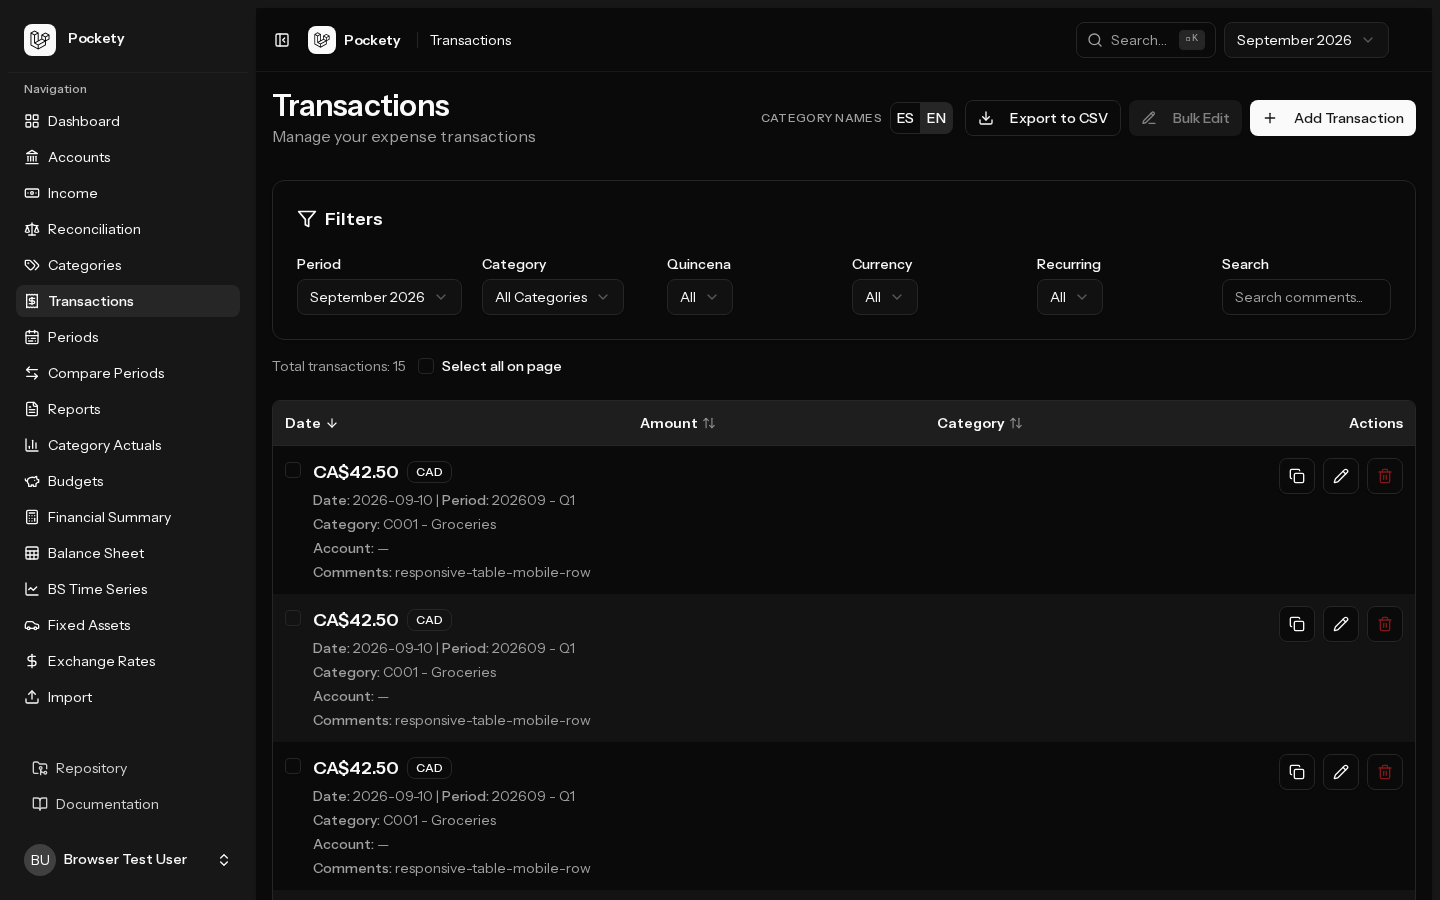
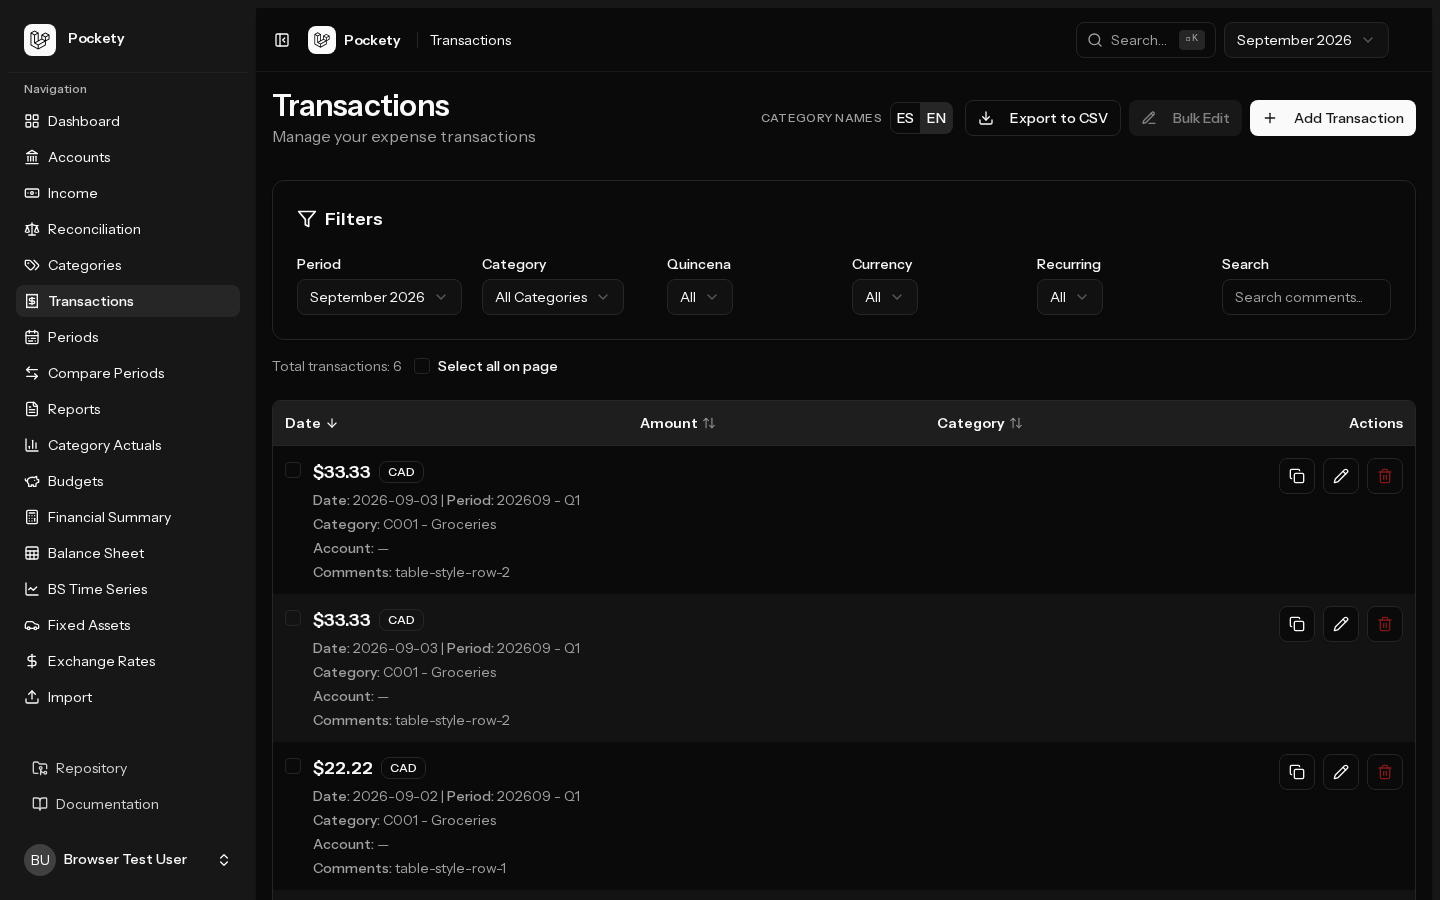
Implement currency symbols - verified end-to-end
- Format CAD as $, USD as US$, COP as COP so amounts are distinguishable
- Tested with browser automation (Playwright) and unit coverage
- Updated feature_list.json: marked test #148 as passing
- Screenshots in verification/test-148-currency-symbols/

diff --git a/tests/browser/currency-symbols.spec.ts b/tests/browser/currency-symbols.spec.ts
@@ -1,0 +1,162 @@
+import { expect, test } from '@playwright/test';
+import { mkdirSync } from 'node:fs';
+import {
+    currencySymbol,
+    formatDisplayCurrency,
+} from '../../resources/js/lib/currency';
+import { loginAsBrowserTestUser, trackConsoleErrors } from './helpers';
+
+const evidence = 'verification/test-148-currency-symbols';
+
+test.describe('currency symbols', () => {
+    test('dashboard and transactions show distinguishable CAD, USD, and COP symbols', async ({
+        page,
+    }) => {
+        mkdirSync(evidence, { recursive: true });
+        const errors = trackConsoleErrors(page);
+        page.on('pageerror', (error) => errors.push(error.message));
+        await page.setViewportSize({ width: 1440, height: 900 });
+        await loginAsBrowserTestUser(page);
+
+        // Unit-level contract used by the UI formatter
+        expect(currencySymbol('CAD')).toBe('$');
+        expect(currencySymbol('USD')).toBe('US$');
+        expect(currencySymbol('COP')).toBe('COP');
+        expect(formatDisplayCurrency(1234.56, 'CAD')).toBe('$1,234.56');
+        expect(formatDisplayCurrency(1234.56, 'USD')).toBe('US$1,234.56');
+        expect(formatDisplayCurrency(2000000, 'COP')).toBe('COP 2,000,000');
+
+        const categories = await page.request.get('/api/categories');
+        expect(categories.ok()).toBeTruthy();
+        const categoryPayload = (await categories.json()) as {
+            data: Array<{ id: number }>;
+        };
+        expect(categoryPayload.data.length).toBeGreaterThan(0);
+        const categoryId = categoryPayload.data[0].id;
+
+        const cadExpected = formatDisplayCurrency(1234.56, 'CAD');
+        const usdExpected = formatDisplayCurrency(1234.56, 'USD');
+        const copExpected = formatDisplayCurrency(2000000, 'COP');
+
+        const cadCreate = await page.request.post('/api/transactions', {
+            data: {
+                date: '2026-09-11',
+                period: '202609',
+                quincena: 'Q1',
+                category_id: categoryId,
+                amount_cad: 1234.56,
+                comments: 'currency-symbol-cad',
+            },
+        });
+        expect(cadCreate.ok()).toBeTruthy();
+        const cadId = ((await cadCreate.json()) as { data: { id: number } })
+            .data.id;
+
+        const usdCreate = await page.request.post('/api/transactions', {
+            data: {
+                date: '2026-09-12',
+                period: '202609',
+                quincena: 'Q1',
+                category_id: categoryId,
+                amount_usd: 1234.56,
+                comments: 'currency-symbol-usd',
+            },
+        });
+        expect(usdCreate.ok()).toBeTruthy();
+        const usdId = ((await usdCreate.json()) as { data: { id: number } })
+            .data.id;
+
+        const copCreate = await page.request.post('/api/transactions', {
+            data: {
+                date: '2026-09-13',
+                period: '202609',
+                quincena: 'Q1',
+                category_id: categoryId,
+                amount_cop: 2000000,
+                comments: 'currency-symbol-cop',
+            },
+        });
+        expect(copCreate.ok()).toBeTruthy();
+        const copId = ((await copCreate.json()) as { data: { id: number } })
+            .data.id;
+
+        // Step 1–2: dashboard screenshot (symbols appear on summary cards)
+        await page.goto('/dashboard');
+        await expect(page.getByRole('heading', { name: /dashboard/i })).toBeVisible({
+            timeout: 15000,
+        });
+        await page.screenshot({
+            path: `${evidence}/dashboard-currency-symbols.png`,
+            fullPage: true,
+        });
+
+        // Step 3–5: transactions list — symbols with amounts, distinguishable, consistent position
+        await page.goto('/transactions');
+        await page.getByTestId('page-period-selector').click();
+        await page
+            .getByRole('option', { name: 'September 2026', exact: true })
+            .click();
+
+        const cadAmount = page.getByTestId(`transaction-amount-${cadId}`);
+        const usdAmount = page.getByTestId(`transaction-amount-${usdId}`);
+        const copAmount = page.getByTestId(`transaction-amount-${copId}`);
+
+        await expect(cadAmount).toBeVisible();
+        await expect(usdAmount).toBeVisible();
+        await expect(copAmount).toBeVisible();
+
+        await expect(cadAmount).toHaveText(cadExpected);
+        await expect(usdAmount).toHaveText(usdExpected);
+        await expect(copAmount).toHaveText(copExpected);
+
+        const cadText = await cadAmount.innerText();
+        const usdText = await usdAmount.innerText();
+        const copText = await copAmount.innerText();
+
+        expect(cadText).toMatch(/^\$/);
+        expect(usdText).toMatch(/^US\$/);
+        expect(copText).toMatch(/^COP /);
+        expect(cadText).not.toBe(usdText);
+        expect(cadText).not.toBe(copText);
+        expect(usdText).not.toBe(copText);
+
+        // Symbol consistently before the numeric amount
+        expect(cadText.indexOf('$')).toBeLessThan(cadText.indexOf('1'));
+        expect(usdText.indexOf('US$')).toBeLessThan(usdText.indexOf('1'));
+        expect(copText.indexOf('COP')).toBeLessThan(copText.indexOf('2'));
+
+        await page.screenshot({
+            path: `${evidence}/transactions-currency-symbols.png`,
+            fullPage: true,
+        });
+        await cadAmount.screenshot({ path: `${evidence}/cad-symbol.png` });
+        await usdAmount.screenshot({ path: `${evidence}/usd-symbol.png` });
+        await copAmount.screenshot({ path: `${evidence}/cop-symbol.png` });
+
+        // Balance sheet also shows all three symbols side by side
+        await page.goto('/balance-sheet');
+        await page.getByTestId('page-period-selector').click();
+        await page
+            .getByRole('option', { name: 'January 2025', exact: true })
+            .click();
+        await expect(page.getByTestId('balance-sheet-summary')).toBeVisible({
+            timeout: 15000,
+        });
+
+        const assetsCad = await page.getByTestId('total-assets-cad').innerText();
+        const assetsUsd = await page.getByTestId('total-assets-usd').innerText();
+        const assetsCop = await page.getByTestId('total-assets-cop').innerText();
+
+        expect(assetsCad).toMatch(/^\$/);
+        expect(assetsUsd).toMatch(/^US\$/);
+        expect(assetsCop).toMatch(/^COP /);
+        expect(assetsCad).not.toEqual(assetsUsd);
+
+        await page.screenshot({
+            path: `${evidence}/balance-sheet-currency-symbols.png`,
+            fullPage: true,
+        });
+
+        expect(errors).toEqual([]);
+    });
+});

diff --git a/resources/js/lib/currency.test.ts b/resources/js/lib/currency.test.ts
@@ -1,30 +1,55 @@
 import { describe, expect, it } from 'vitest';
 import {
+    currencySymbol,
     formatCurrencyAmount,
     formatDisplayCurrency,
 } from '@/lib/currency';
 
+describe('currencySymbol', () => {
+    it('returns distinguishable symbols for CAD, USD, and COP', () => {
+        expect(currencySymbol('CAD')).toBe('$');
+        expect(currencySymbol('USD')).toBe('US$');
+        expect(currencySymbol('COP')).toBe('COP');
+
+        const symbols = [
+            currencySymbol('CAD'),
+            currencySymbol('USD'),
+            currencySymbol('COP'),
+        ];
+        expect(new Set(symbols).size).toBe(3);
+    });
+});
+
 describe('formatDisplayCurrency', () => {
-    it('formats CAD with two decimals and comma thousand separators', () => {
+    it('formats CAD with $ prefix, two decimals, and comma separators', () => {
         const formatted = formatDisplayCurrency(1234.56, 'CAD');
 
-        expect(formatted).toContain('1,234.56');
-        expect(formatted).not.toContain('1.234');
+        expect(formatted).toBe('$1,234.56');
+        expect(formatted.startsWith('$')).toBe(true);
+        expect(formatted).not.toMatch(/^US\$/);
     });
 
-    it('formats USD with two decimals and comma thousand separators', () => {
+    it('formats USD with US$ prefix so it is distinct from CAD', () => {
         const formatted = formatDisplayCurrency(1234.56, 'USD');
 
-        expect(formatted).toContain('1,234.56');
-        expect(formatted).not.toContain('1.234');
+        expect(formatted).toBe('US$1,234.56');
+        expect(formatted).toContain('US$');
+        expect(formatted).not.toBe(formatDisplayCurrency(1234.56, 'CAD'));
     });
 
-    it('formats COP without decimals and with comma thousand separators', () => {
+    it('formats COP with COP code prefix and no decimals', () => {
         const formatted = formatDisplayCurrency(2000000, 'COP');
 
-        expect(formatted).toContain('2,000,000');
+        expect(formatted).toBe('COP 2,000,000');
+        expect(formatted.startsWith('COP ')).toBe(true);
         expect(formatted).not.toMatch(/2\.000\.000/);
         expect(formatted).not.toMatch(/2,000,000\.00/);
+    });
+
+    it('keeps the symbol position consistent for negative amounts', () => {
+        expect(formatDisplayCurrency(-1234.56, 'CAD')).toBe('-$1,234.56');
+        expect(formatDisplayCurrency(-1234.56, 'USD')).toBe('-US$1,234.56');
+        expect(formatDisplayCurrency(-2000000, 'COP')).toBe('-COP 2,000,000');
     });
 });
 
@@ -42,5 +67,6 @@ describe('formatCurrencyAmount', () => {
         expect(formatCurrencyAmount(2500000, 'COP')).toBe(
             formatDisplayCurrency(2500000, 'COP'),
         );
+        expect(formatCurrencyAmount(99.5, 'USD')).toBe('US$99.50');
     });
 });

diff --git a/resources/js/lib/currency.ts b/resources/js/lib/currency.ts
@@ -1,14 +1,20 @@
 export type DisplayCurrency = 'CAD' | 'USD' | 'COP';
 
 /**
- * Use English locales so thousand separators are commas (1,234.56 / 2,000,000).
+ * Distinct symbols so CAD / USD / COP never look identical in the UI.
+ * Matches product rules: $, US$, COP (also accepts $COP as a COP form).
+ */
+const CURRENCY_SYMBOLS: Record<DisplayCurrency, string> = {
+    CAD: '$',
+    USD: 'US$',
+    COP: 'COP',
+};
+
+/**
+ * Use English locale so thousand separators are commas (1,234.56 / 2,000,000).
  * es-CO would use period grouping, which fails the product formatting requirement.
  */
-const LOCALES: Record<DisplayCurrency, string> = {
-    CAD: 'en-CA',
-    USD: 'en-US',
-    COP: 'en-US',
-};
+const NUMBER_LOCALE = 'en-US';
 
 const FRACTION_DIGITS: Record<DisplayCurrency, number> = {
     CAD: 2,
@@ -21,21 +27,45 @@ export function isDisplayCurrency(value: string): value is DisplayCurrency {
 }
 
 /**
- * Format a currency amount with thousand separators and currency-appropriate decimals.
- * CAD/USD → 2 decimals (e.g. $1,234.56); COP → 0 decimals (e.g. COP 2,000,000).
+ * Return the display symbol/code for a currency ($, US$, COP).
  */
-export function formatDisplayCurrency(
+export function currencySymbol(currency: DisplayCurrency): string {
+    return CURRENCY_SYMBOLS[currency];
+}
+
+/**
+ * Format the numeric portion only (thousand separators + currency-appropriate decimals).
+ */
+export function formatCurrencyNumber(
     amount: number,
     currency: DisplayCurrency,
 ): string {
     const digits = FRACTION_DIGITS[currency];
 
-    return new Intl.NumberFormat(LOCALES[currency], {
-        style: 'currency',
-        currency,
+    return new Intl.NumberFormat(NUMBER_LOCALE, {
         minimumFractionDigits: digits,
         maximumFractionDigits: digits,
-    }).format(amount);
+    }).format(Math.abs(amount));
+}
+
+/**
+ * Format a currency amount with a distinguishable symbol and thousand separators.
+ * CAD → $1,234.56; USD → US$1,234.56; COP → COP 2,000,000.
+ * Negative amounts keep a leading minus: -$1,234.56 / -US$1,234.56 / -COP 2,000,000.
+ */
+export function formatDisplayCurrency(
+    amount: number,
+    currency: DisplayCurrency,
+): string {
+    const symbol = CURRENCY_SYMBOLS[currency];
+    const number = formatCurrencyNumber(amount, currency);
+    const sign = amount < 0 ? '-' : '';
+
+    if (currency === 'COP') {
+        return `${sign}${symbol} ${number}`;
+    }
+
+    return `${sign}${symbol}${number}`;
 }
 
 /**
